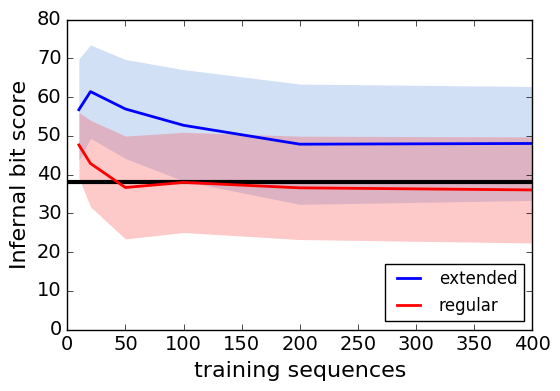
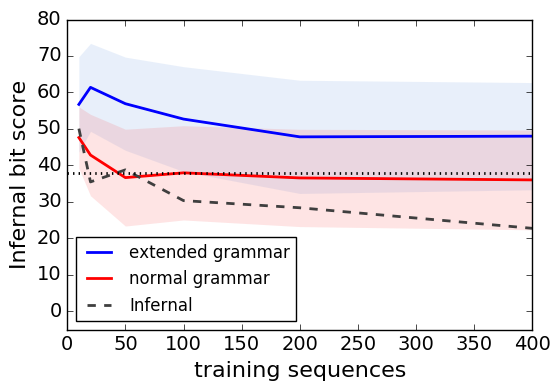
hayaku!

Changed region(s): [[0.0607, 0.2148, 0.9714, 0.8593], [0.6679, 0.6752, 0.9411, 0.8286], [0.0607, 0.1228, 0.1214, 0.1841]]

diff --git a/papers/cml2016/nips_2016.tex b/papers/cml2016/nips_2016.tex
@@ -7,7 +7,7 @@
 % to avoid loading the natbib package, add option nonatbib
 % \usepackage[nonatbib]{nips_2016}
 
-\usepackage{nips_2016}
+\usepackage[final]{nips_2016}
 
 % to compile a camera-ready version, add the [final] option, e.g.:
 %\usepackage[final]{nips_2016}
@@ -247,7 +247,8 @@ the two vertices that it previously joined. In addition we allow the more
 general notion of {\em vertex contraction}, which removes the restriction that
 the contraction must occur over vertices sharing an incident edge. Both
 procedures are defined using a node attribute $cid \in \IN$ called {\em
-contraction-identifier} and contracting all vertices that share the same $cid$. We propose to use the contraction operation as a flexible way to
+contraction-identifier} and contracting all vertices that share the same $cid$.
+We propose to use the contraction operation as a flexible way to
 transform a graph to its coarser version, $G \mapsto G'$. Cores and interfaces
 can now be defined exploiting the contracted graph. Starting from a CIP on the
 coarse graph, we define the core as the sub graph induced by the vertices of
@@ -273,7 +274,9 @@ viewed as a global localization indicator.
       \caption{
       Core and interface subgraphs are marked in dark and light color
       respectively. Left: Molecular graph with indicated core substitution.
-      Mid: RNA encoding with nucleotide level resolution.  Right:  RNA encoding with structural element resolution, with symbols: H)airpin, M)ultiloop, S)tem, D)angling end.}
+      Mid: RNA encoding with nucleotide level resolution.  Right:  RNA encoding
+      with structural element resolution, with symbols: H)airpin, M)ultiloop,
+      S)tem, D)angling end.}
       \label{allcips}
 \end{figure}
 
@@ -324,13 +327,17 @@ family, the RFam database uses the covariance model computed by the program
 \emph{Infernal} (INFERence of RNA ALignment) \citep{infernal} induced over a
 hand curated set of representative sequences.
 In Fig.~\ref{infeval} we report the average score achieved by the constructed
-sequences as the training set increases. The black horizontal line indicates
+sequences as the training set increases. The horizontal line indicates
 the family specific threshold above which the Infernal model accepts a
 sequence as a valid instance of the family. In blue we report the results for
-the proposed extension and in red the results for the original method. We note
+the proposed extension and in red the results for the original method. 
+To make it comparable to our method, we used MUSCLE and RNAalifold to
+train a new Infernal model and report the
+performance of its generated sequences (dashed).  
+We note
 that the coarsening strategy consistently improves the quality of the results. 
 
-In \cite{costa16} the \emph{the constructive learning problem for finite
+In \cite{costa16} \emph{the constructive learning problem for finite
 samples} is formally specified as the optimization of a parametric generator
 for two competing objectives: on the one hand one should obtain similar
 probability density estimators when these are trained on the original data or
